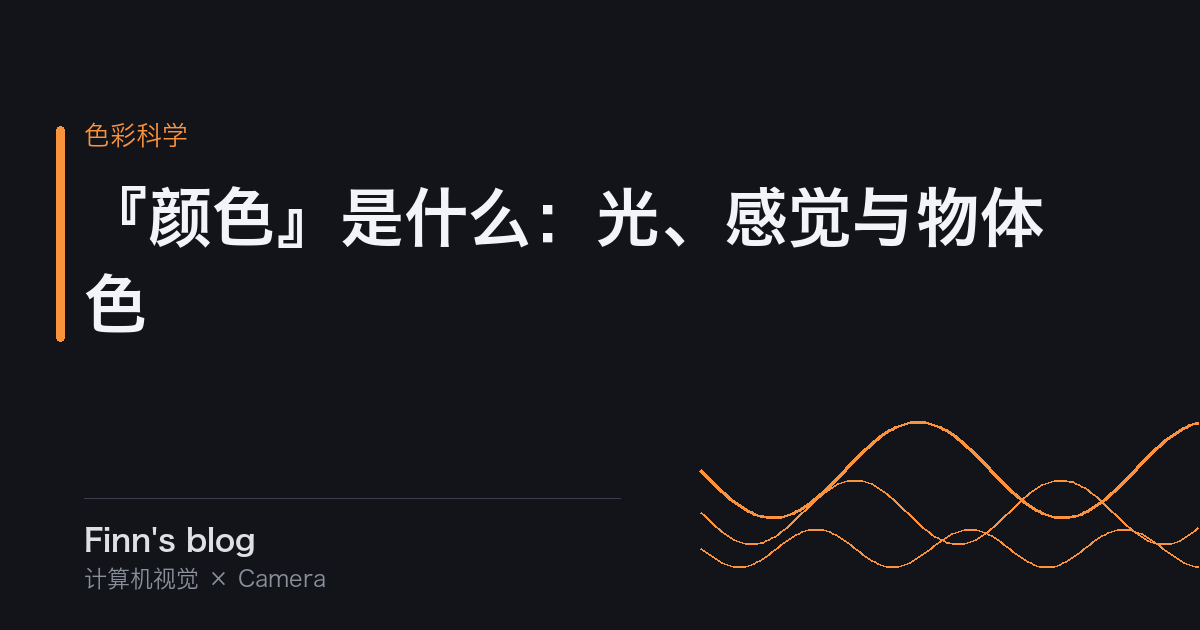
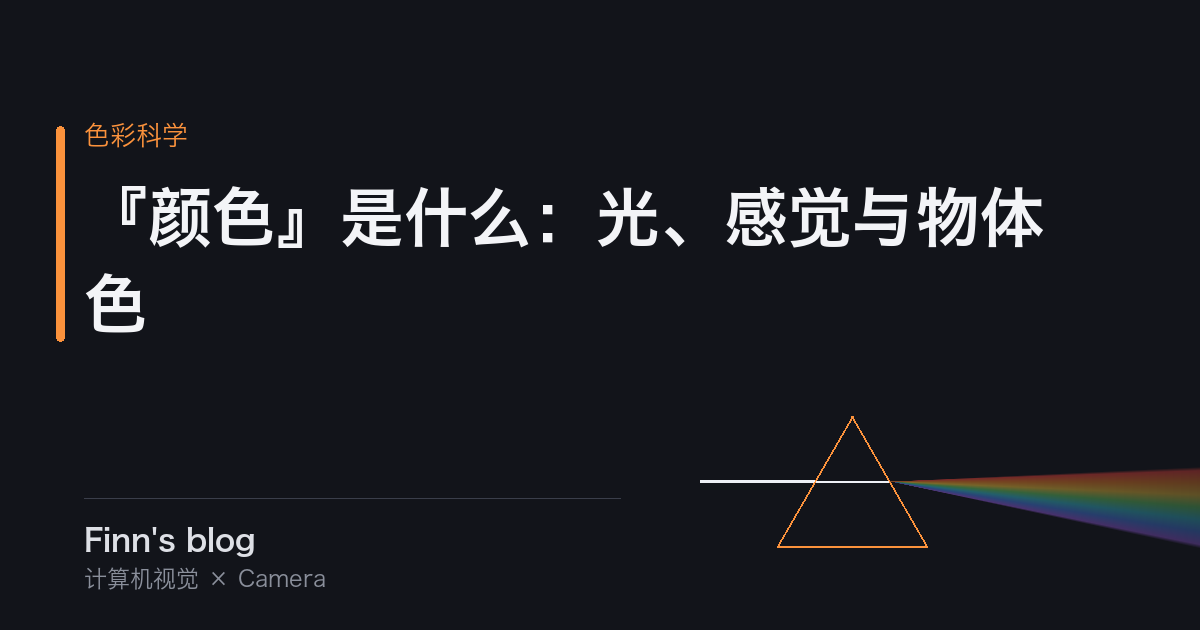
[feature] 色彩科学系列补上关于页入口，og 图换用棱镜色散纹样
关于页的该栏目此前只有正文、没有系列入口，与前两个栏目不同构：
- 小节标题由「话说光与色」改为「色彩科学」，与分类名对齐；
  「话说光与色」是当年的译名，仅保留在叙述里
- 补上 series-link 按钮，指向 /categories/色彩科学/
- 结尾改为「第一篇已整理完毕，其余部份仍在，施工中 ...」

og 图此前复用了数字信号处理的 wave 纹样，只换了强调色，
两个系列在信息流里分不开。新增 prism 纹样：一束白光水平射入
三棱镜，自右侧面散出连续可见光谱——既是「光与色」最经典的符号，
也呼应文中牛顿《光学》那一段。

色带采用逐像素着色而非叠画多条光线：后者在交叠处 alpha 按
1-(1-a)^n 迅速饱和，单条 alpha 从 46 降到 12 都压不暗。

Changed region(s): [[0.5858, 0.6937, 1.0, 0.8746], [0.74, 0.6635, 0.8017, 0.6937], [0.9867, 0.6635, 1.0, 0.6937]]

diff --git a/tools/generate_og_images.py b/tools/generate_og_images.py
@@ -32,9 +32,24 @@ SITE_COLOR = (222, 224, 230)
 CATEGORY_STYLE = {
     "数字信号处理": {"accent": (56, 189, 248), "motif": "wave"},
     "数字图像处理": {"accent": (167, 139, 250), "motif": "grid"},
-    "色彩科学": {"accent": (251, 146, 60), "motif": "wave"},
+    "色彩科学": {"accent": (251, 146, 60), "motif": "prism"},
 }
 DEFAULT_STYLE = {"accent": (148, 163, 184), "motif": "wave"}
+
+# prism 纹样用的可见光谱锚点，长波在前——与出射光线偏折由小到大的顺序一致
+SPECTRUM = [
+    (255, 71, 60), (255, 138, 41), (255, 206, 61), (104, 214, 108),
+    (58, 198, 219), (74, 132, 246), (154, 94, 235),
+]
+
+
+def spectrum_color(f):
+    """在光谱锚点之间线性插值。f=0 取红端，f=1 取紫端。"""
+    pos = f * (len(SPECTRUM) - 1)
+    i = min(int(pos), len(SPECTRUM) - 2)
+    t = pos - i
+    a, b = SPECTRUM[i], SPECTRUM[i + 1]
+    return tuple(int(round(a[c] + (b[c] - a[c]) * t)) for c in range(3))
 
 FONT_PATH = "/System/Library/Fonts/Hiragino Sans GB.ttc"
 FONT_FALLBACK = "/System/Library/Fonts/STHeiti Medium.ttc"
@@ -142,6 +157,47 @@ def draw_background(img, style):
                     draw.line([prev, (x, y)],
                               fill=accent + (int(alpha * fade),), width=width)
                 prev = (x, y)
+    elif style["motif"] == "prism":
+        # 棱镜色散：一束白光进三棱镜，散作可见光谱——「光与色」最经典的图景
+        apex, bl, br = (852, 416), (777, 546), (927, 546)
+        entry = ((apex[0] + bl[0]) / 2, (apex[1] + bl[1]) / 2)
+        exit_pt = ((apex[0] + br[0]) / 2, (apex[1] + br[1]) / 2)
+
+        # 入射白光：同样从左端淡入，与另外两种纹样的处理保持一致
+        step = 4
+        for x in range(DECOR_X, int(entry[0]), step):
+            fade = min(1.0, (x - DECOR_X) / 150)
+            draw.line([(x, entry[1]), (x + step, entry[1])],
+                      fill=(238, 240, 246) + (int(126 * fade),), width=3)
+        # 棱镜内部的光路
+        draw.line([entry, exit_pt], fill=(238, 240, 246, 58), width=2)
+
+        # 出射光谱：红偏折最小、紫最大，自出射点向右下张开成一片连续色带。
+        # 逐像素着色而不是叠画多条光线——后者在交叠处 alpha 会迅速累积到饱和，
+        # 亮度就再也压不下来了
+        x0, y0 = exit_pt
+        ang0, ang1 = math.radians(-2.0), math.radians(11.5)
+        feather = math.radians(0.7)          # 扇形上下缘的羽化宽度
+        reach = W - x0
+        layer = Image.new("RGBA", (W, H), (0, 0, 0, 0))
+        px = layer.load()
+        for X in range(int(x0), W):
+            dx = X - x0
+            for Y in range(DECOR_Y, H):
+                ang = math.atan2(Y - y0, dx)
+                if ang < ang0 - feather or ang > ang1 + feather:
+                    continue
+                edge = min(ang - (ang0 - feather), (ang1 + feather) - ang)
+                aa = min(1.0, edge / feather)
+                f = min(1.0, max(0.0, (ang - ang0) / (ang1 - ang0)))
+                fade = 1 - 0.32 * min(1.0, math.hypot(dx, Y - y0) / reach)
+                r, g, b = spectrum_color(f)
+                px[X, Y] = (r, g, b, int(120 * fade * aa))
+        img.alpha_composite(layer)
+
+        # 棱镜轮廓压在光路之上
+        for a, b in ((apex, bl), (bl, br), (br, apex)):
+            draw.line([a, b], fill=accent + (96,), width=2)
     else:
         # 像素网格：呼应图像处理
         cell = 36
